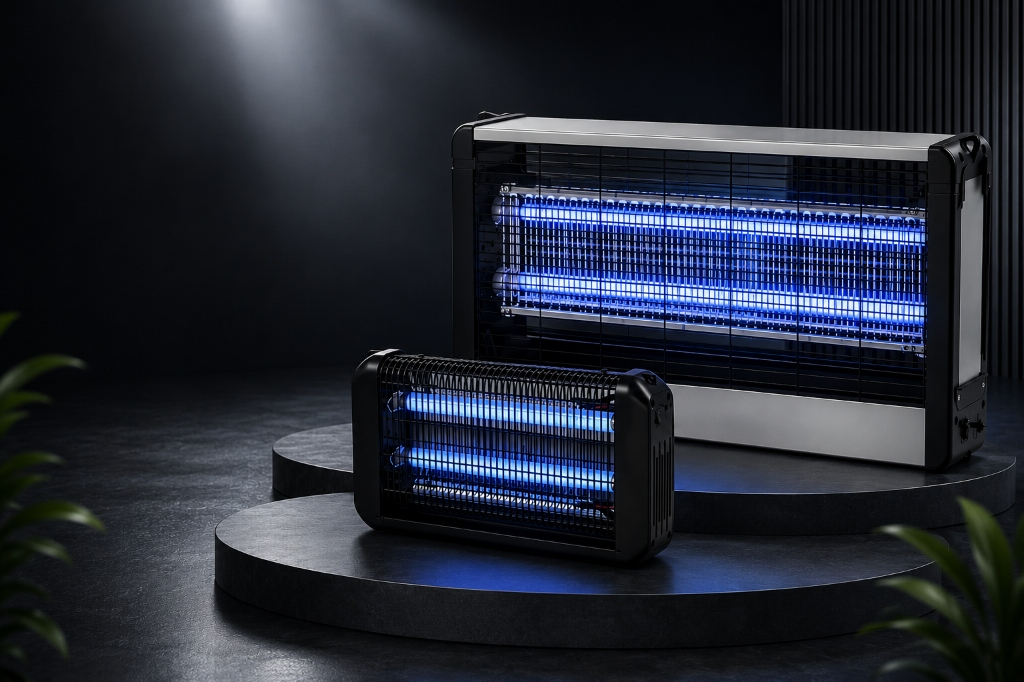
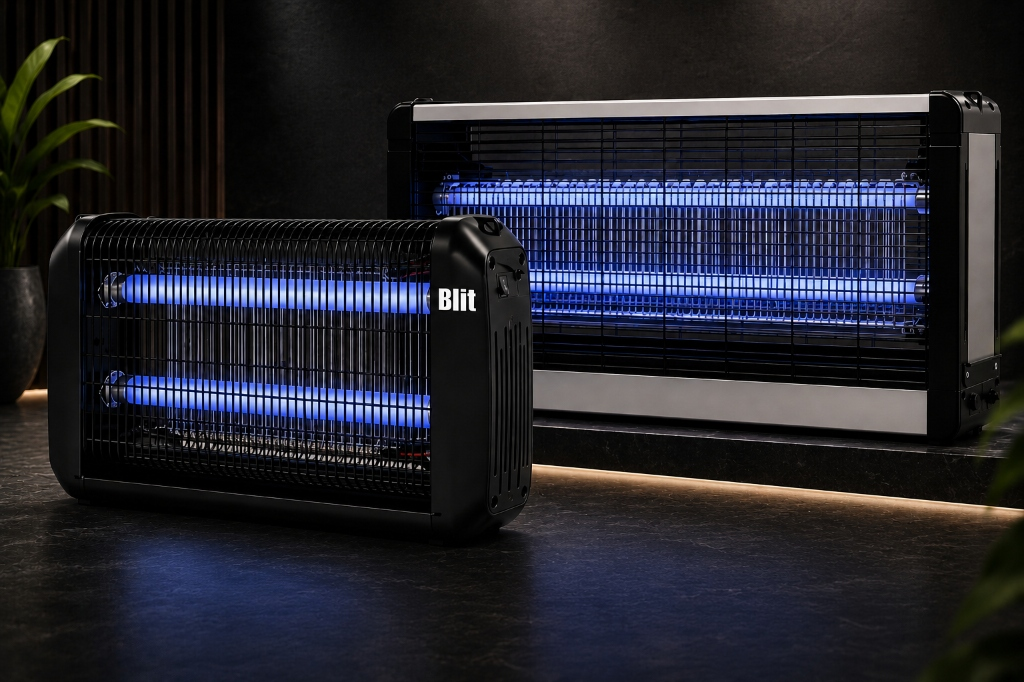
Replace Slide 5 image and title with Electronic & Industrial Insect Killers hero asset

diff --git a/insect-killer.html b/insect-killer.html
@@ -11,7 +11,7 @@
   <link rel="preconnect" href="https://fonts.gstatic.com" crossorigin>
   <link href="https://fonts.googleapis.com/css2?family=Outfit:wght@300;400;500;600;700;800&family=Poppins:wght@300;400;500;600;700&display=swap" rel="stylesheet">
   
-  <link rel="preload" href="/assets/products/insect_killer/insect_killer_hero.webp" as="image" type="image/jpeg">
+  <link rel="preload" href="/assets/products/insect_killer/insect_killer_hero.webp?v=2" as="image" type="image/jpeg">
   <link rel="stylesheet" href="./style.css">
   
   <style>
@@ -34,7 +34,7 @@
     }
 
     .switches-hero {
-      background-image: linear-gradient(90deg, rgba(0, 0, 0, 0.8) 0%, rgba(0, 0, 0, 0.45) 60%, rgba(0, 0, 0, 0.1) 100%), url('/assets/products/insect_killer/insect_killer_hero.webp');
+      background-image: linear-gradient(90deg, rgba(0, 0, 0, 0.8) 0%, rgba(0, 0, 0, 0.45) 60%, rgba(0, 0, 0, 0.1) 100%), url('/assets/products/insect_killer/insect_killer_hero.webp?v=2');
       background-size: cover;
       background-position: center;
       padding: 120px 0;

diff --git a/index.html b/index.html
@@ -100,11 +100,11 @@
       <!-- Slide 5 -->
       <div class="hero-slide">
         <div class="hero-content">
-          <h1 class="hero-title">Premium Wires &<br>Cable Solutions</h1>
+          <h1 class="hero-title">Electronic & Industrial<br>Insect Killers</h1>
           <a href="#products" class="hero-btn">Explore</a>
         </div>
         <div class="hero-image-container">
-          <img src="/assets/cables_hero.webp" alt="Premium Wires and Cables" class="hero-img" loading="lazy" decoding="async">
+          <img src="/assets/products/insect_killer/insect_killer_hero.webp?v=2" alt="Electronic & Industrial Insect Killers" class="hero-img" loading="lazy" decoding="async">
         </div>
       </div>
       <!-- Slide 6 -->
